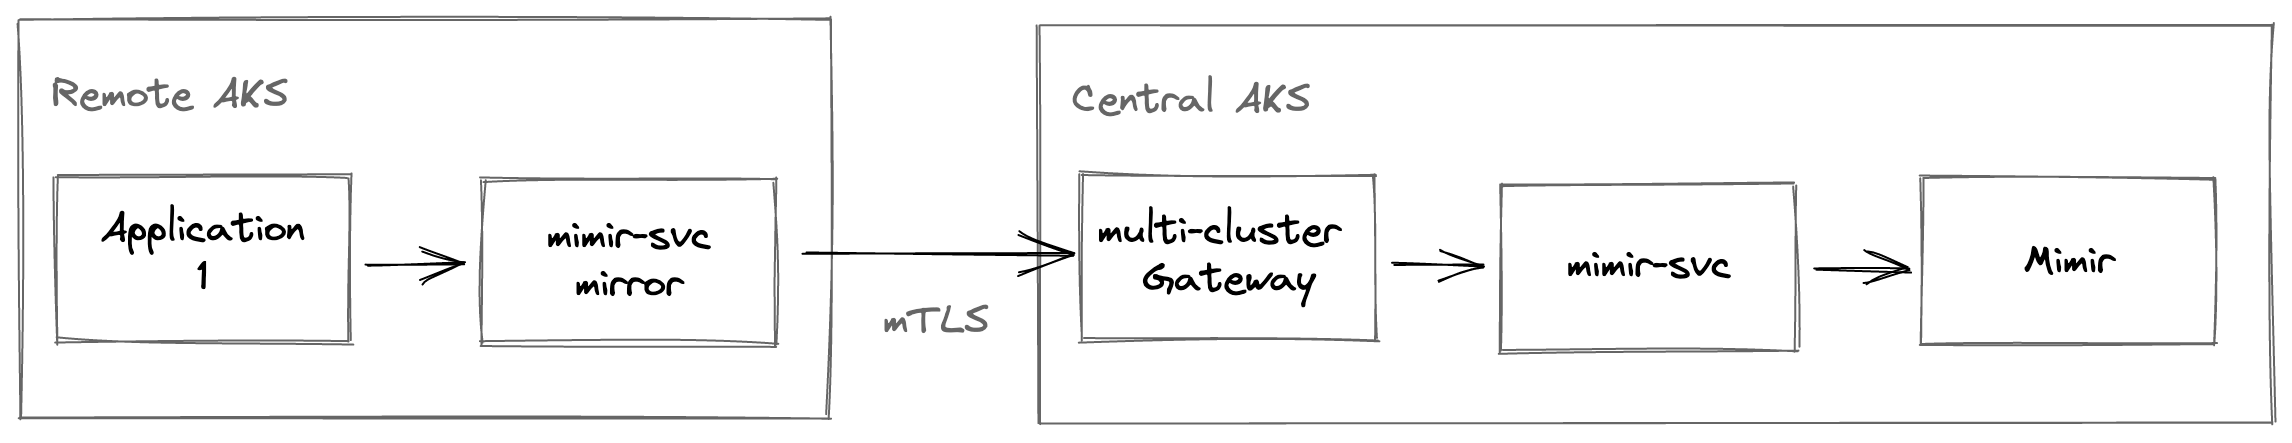
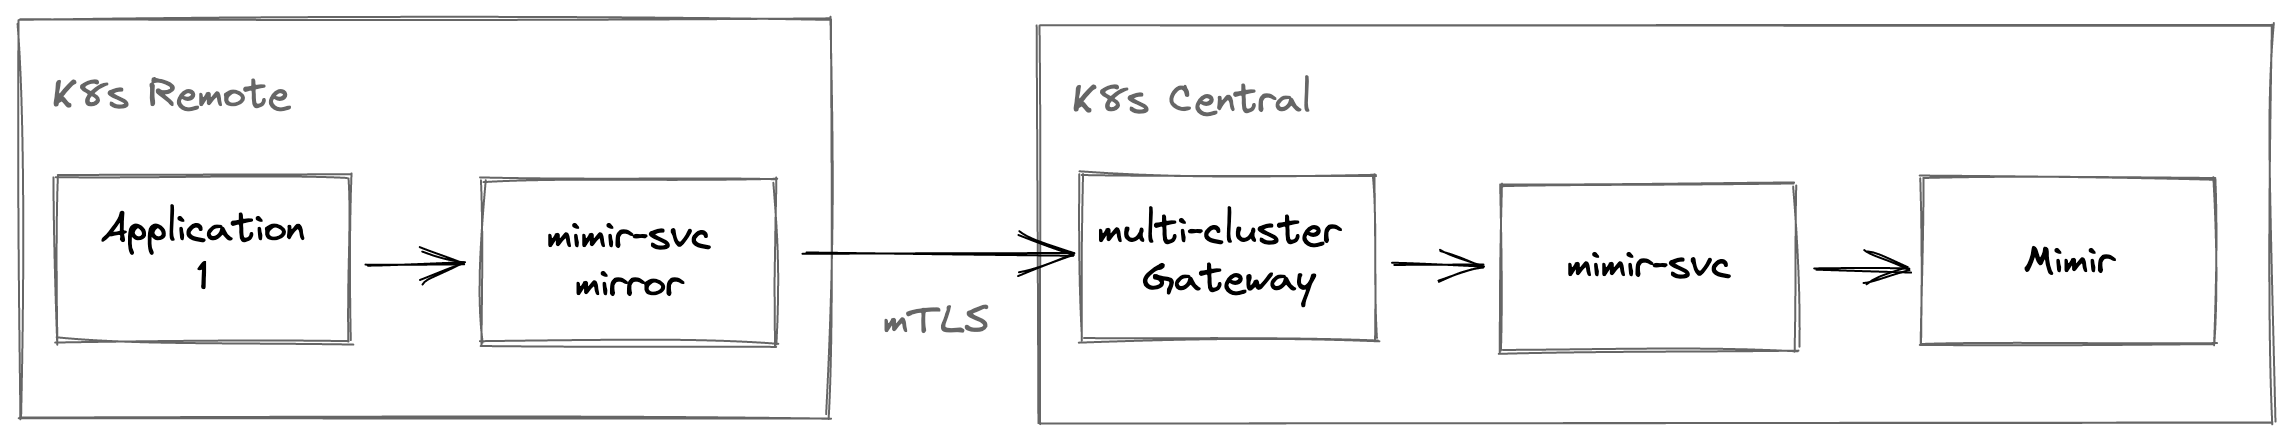
Improving diagrams and validation process.

Changed region(s): [[0.4647, 0.1761, 0.5886, 0.2641], [0.0, 0.1761, 0.1239, 0.2641]]

diff --git a/README.md b/README.md
@@ -10,7 +10,7 @@ Loki is drastically easier to deploy and manage than the traditional ELK stack, 
 
 We will have *two* Kubernetes clusters, one with the LGTM Stack exposing Grafana via Ingress (`lgtm-central`), and another with a sample application, generating metrics, logs, and traces (`lgtm-remote`).
 
-As Zero Trust is becoming more important nowadays, we'll use Linkerd to secure the communication within each cluster and the communication between the clusters, which gives us the ability to have a secure channel without implementing authentication, authorization, and encryption on our own.
+As Zero Trust is becoming more important nowadays, we'll use [Linkerd](https://linkerd.io/) to secure the communication within each cluster and the communication between the clusters, which gives us the ability to have a secure channel without implementing authentication, authorization, and encryption on our own.
 
 ![Architecture](architecture-1.png)
 
@@ -19,6 +19,22 @@ We will use Minikube for the clusters, and as the Linkerd Gateway for Multi-Clus
 For MetalLB, the Central cluster will use segment `x.x.x.201-210`, and the Remote cluster will employ `x.x.x.211-220` for the Public IPs extracted from the Minikube IP on each case.
 
 The Multi-Cluster Link is originated on the Remote Cluster, targeting the Central Cluster, meaning the Service Mirror Controller lives on the Remote Cluster.
+
+Each remote cluster would be a Tenant in terms of Mimir, Tempo and Loki. For demo purposes, Grafana has Data Sources to get data from the Local components and Remote components.
+
+Mimir supports Tenant Federation if you need to look at metrics from different tenants simultaneously.
+
+### Data Sources
+
+The following is the list of Data Sources on the Central Grafana:
+
+* `Mimir Local` to get metrics from the local Mimir (long term). The default DS for Prometheus, can also be used, for short periods.
+* `Tempo Local` to get traces from the local cluster.
+* `Loki Local` to get logs from the local cluster.
+
+* `Mimir Remote` to get metrics from the remote cluster.
+* `Tempo Remote` to get traces from the remote cluster.
+* `Loki Remote` to get logs from the remote cluster.
 
 ## Requirements
 
@@ -38,19 +54,72 @@ The solution has been designed and tested on macOS. You might need to change the
 ./deploy-certs.sh
 ```
 
-* Deploy Central Cluster with LGTM stack:
+* Deploy Central Cluster with LGTM stack (Minikube context: `lgtm-central`):
 
 ```bash
 ./deploy-central.sh
 ```
 
-* Deploy Remote Cluster with sample application linked to the Central Cluster:
+* Deploy Remote Cluster with sample application linked to the Central Cluster (Minikube context: `lgtm-remote`):
 
 ```bash
 ./deploy-remote.sh
 ```
 
-You should add an entry to `/etc/hosts` for `grafana.example.com` pointing to the IP that the Ingress will get on the Central cluster (the script will tell you that IP).
+You should add an entry to `/etc/hosts` for `grafana.example.com` pointing to the IP that the Ingress will get on the Central cluster (the script will tell you that IP), or:
+
+```
+kubectl get svc -n ingress-nginx ingress-nginx-controller -o jsonpath='{.status.loadBalancer.ingress[0].ip}'
+```
+
+## Validation
+
+The `linkerd` CLI can help to verify if the inter-cluster communication is working. From the `lgtm-remote` cluster, you can do the following:
+
+```bash
+➜  kubectl config use-context lgtm-remote
+Switched to context "lgtm-remote".
+```
+
+```bash
+➜  linkerd mc check
+linkerd-multicluster
+--------------------
+√ Link CRD exists
+√ Link resources are valid
+	* lgtm-central
+√ remote cluster access credentials are valid
+	* lgtm-central
+√ clusters share trust anchors
+	* lgtm-central
+√ service mirror controller has required permissions
+	* lgtm-central
+√ service mirror controllers are running
+	* lgtm-central
+√ all gateway mirrors are healthy
+	* lgtm-central
+√ all mirror services have endpoints
+√ all mirror services are part of a Link
+√ multicluster extension proxies are healthy
+√ multicluster extension proxies are up-to-date
+√ multicluster extension proxies and cli versions match
+
+Status check results are √
+```
+
+```bash
+➜  linkerd mc gateways
+CLUSTER       ALIVE    NUM_SVC      LATENCY
+lgtm-central  True           3          2ms
+```
+
+When linking `lgtm-remote` to `lgtm-central` via Linkerd Multi-Cluster, the CLI will use the Kubeconfig from the `lgtm-central` to configure the service mirror controller on the `lgtm-remote` cluster.
+
+You can inspect the runtime kubeconfig as follows:
+
+```bash
+kubectl get secret -n linkerd-multicluster cluster-credentials-lgtm-central -o jsonpath='{.data.kubeconfig}' | base64 -d; echo
+```
 
 ## Shutdown
 
